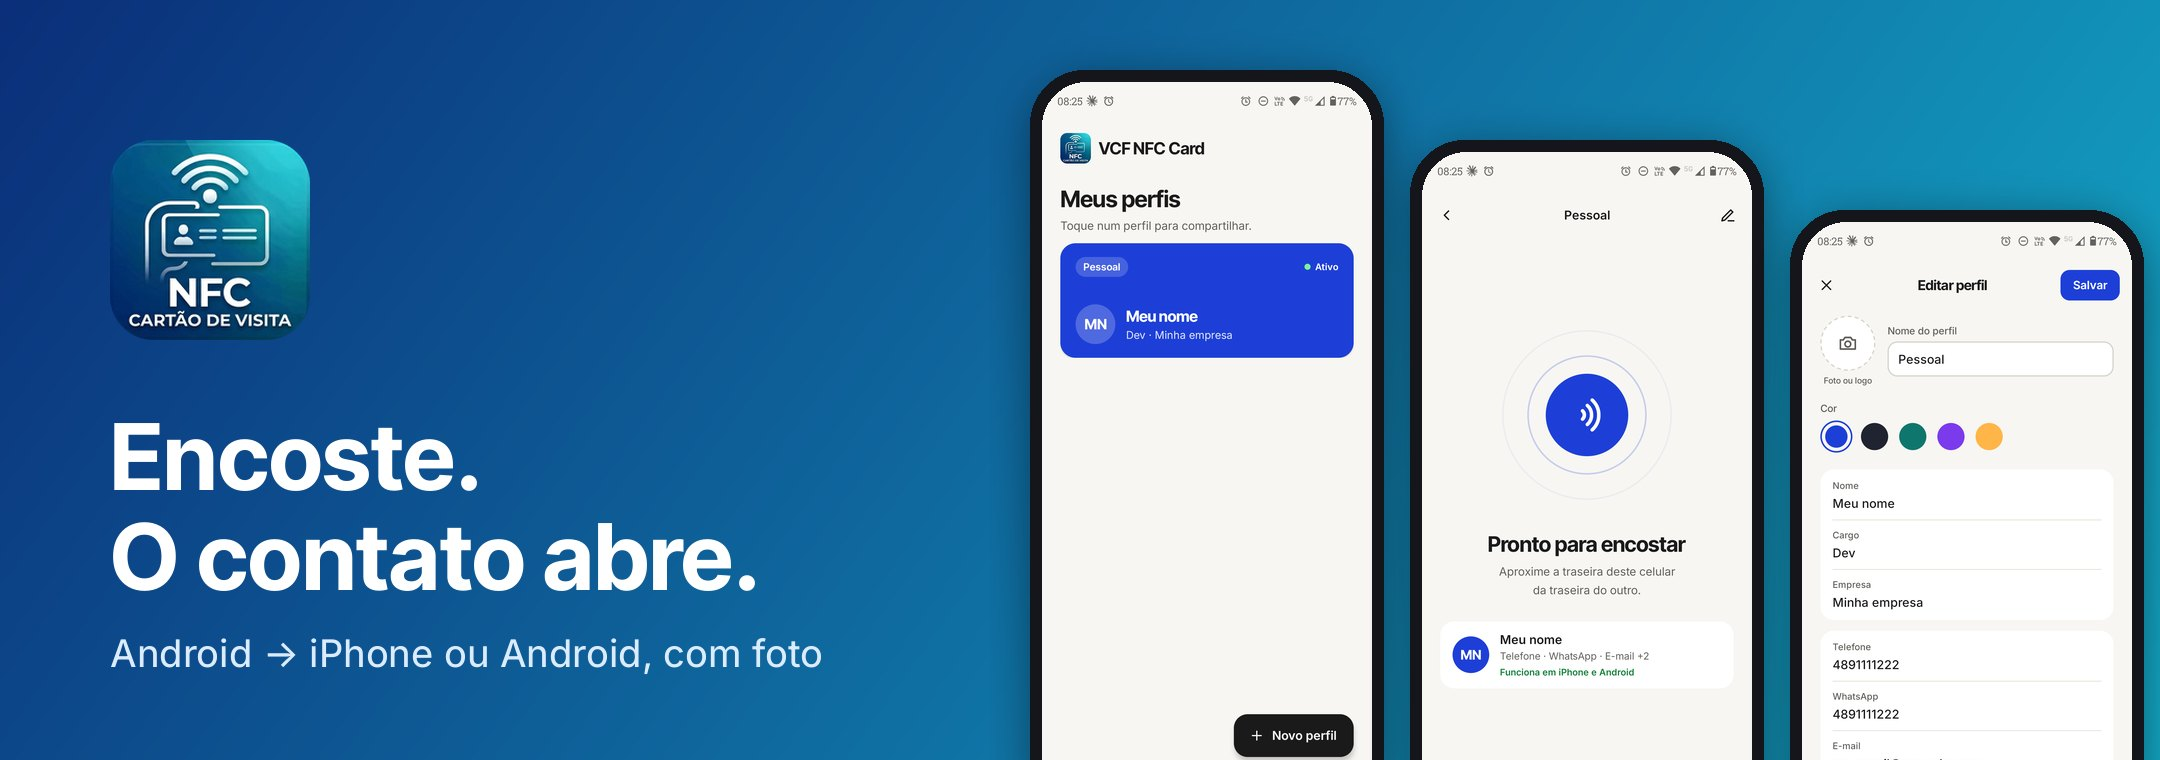
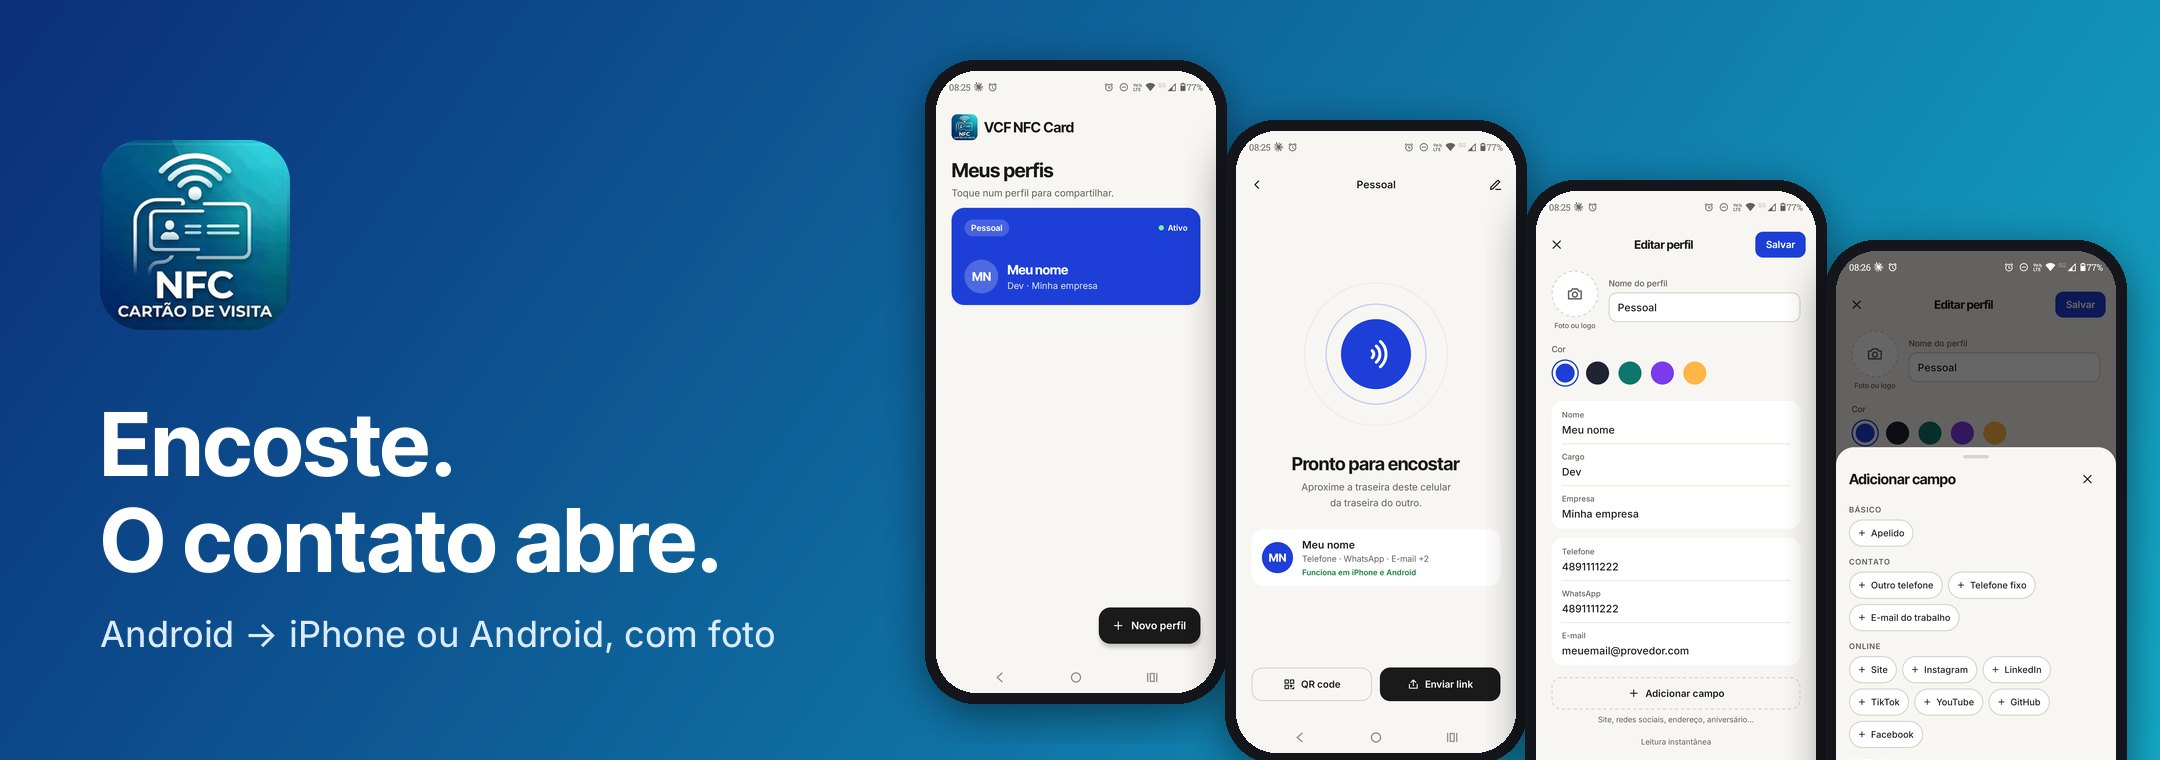
README: tela de adicionar campo
Claude-Session: https://claude.ai/code/session_01Y1fZzovXWqFN8f4TfNB4Rx

diff --git a/README.md b/README.md
@@ -38,7 +38,7 @@ Por isso a tela mostra o **progresso real da leitura** e **vibra** quando termin
 
 ## Recursos
 
-![Telas: meus perfis, pronto para encostar, editar perfil](docs/telas.png)
+![Telas: meus perfis, pronto para encostar, editar perfil, adicionar campo](docs/telas.png)
 
 - Vários **perfis** (pessoal, trabalho, loja…), cada um com cor e foto/logo
 - Campos: nome, cargo, empresa, telefones, WhatsApp, e-mails, site, Instagram, LinkedIn, TikTok, YouTube, GitHub, Facebook, endereço, aniversário, observação
